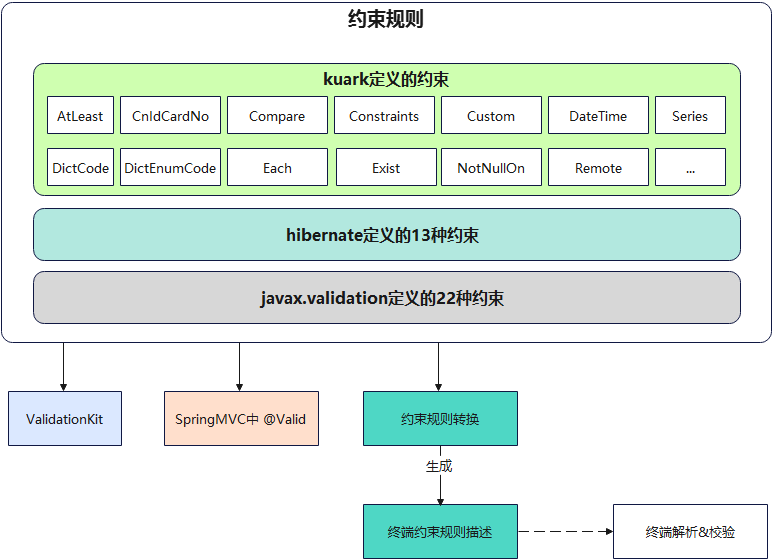
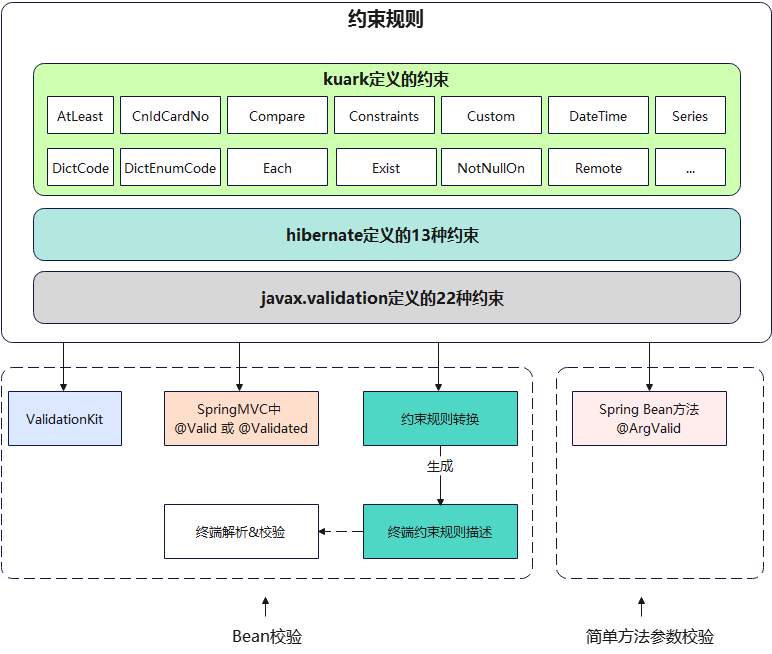
@ArgValid

diff --git a/kuark-context/src/io/kuark/context/validation/ArgValidAspect.kt b/kuark-context/src/io/kuark/context/validation/ArgValidAspect.kt
@@ -1,5 +1,6 @@
-package io.kuark.base.bean.validation.support
+package io.kuark.context.validation
 
+import io.kuark.base.bean.validation.support.ValidatorFactory
 import io.kuark.base.lang.reflect.getMemberProperty
 import org.aspectj.lang.ProceedingJoinPoint
 import org.aspectj.lang.annotation.Around
@@ -29,7 +30,7 @@ class ArgValidAspect {
      * @author K
      * @since 1.0.0
      */
-    @Pointcut("@annotation(io.kuark.base.bean.validation.support.ArgValid)")
+    @Pointcut("@annotation(io.kuark.context.validation.ArgValid)")
     private fun cut() {
         // do nothing
     }

diff --git a/kuark-context/test/io/kuark/context/validation/TestBean.kt b/kuark-context/test/io/kuark/context/validation/TestBean.kt
@@ -1,6 +1,5 @@
 package io.kuark.context.validation
 
-import io.kuark.base.bean.validation.support.ArgValid
 import org.springframework.stereotype.Component
 import org.springframework.web.bind.annotation.ModelAttribute
 import javax.validation.constraints.Max

diff --git a/kuark-context/src/io/kuark/context/validation/ArgValid.kt b/kuark-context/src/io/kuark/context/validation/ArgValid.kt
@@ -1,4 +1,4 @@
-package io.kuark.base.bean.validation.support
+package io.kuark.context.validation
 
 
 /**
